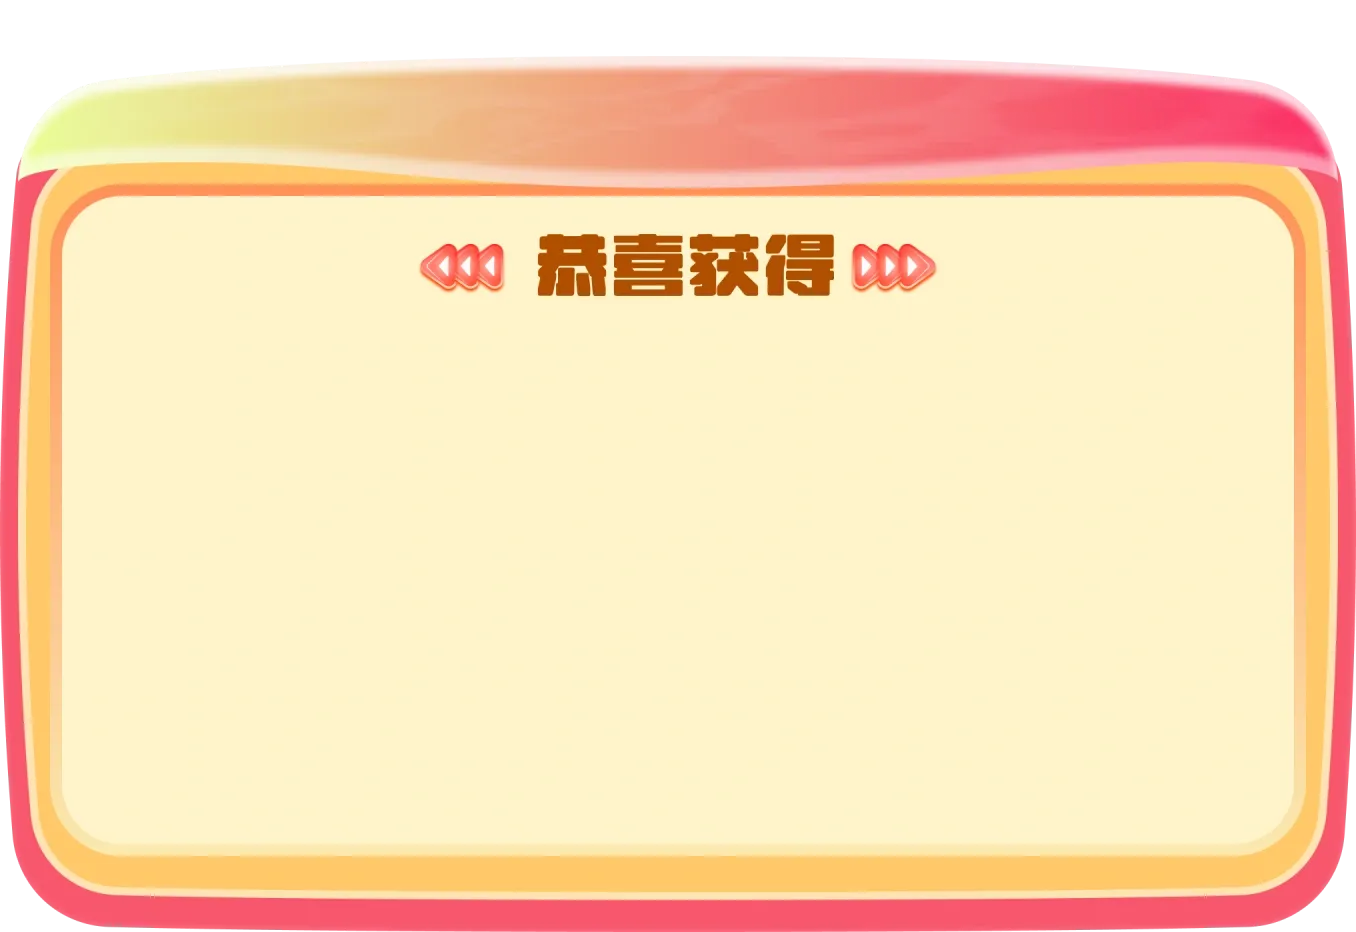
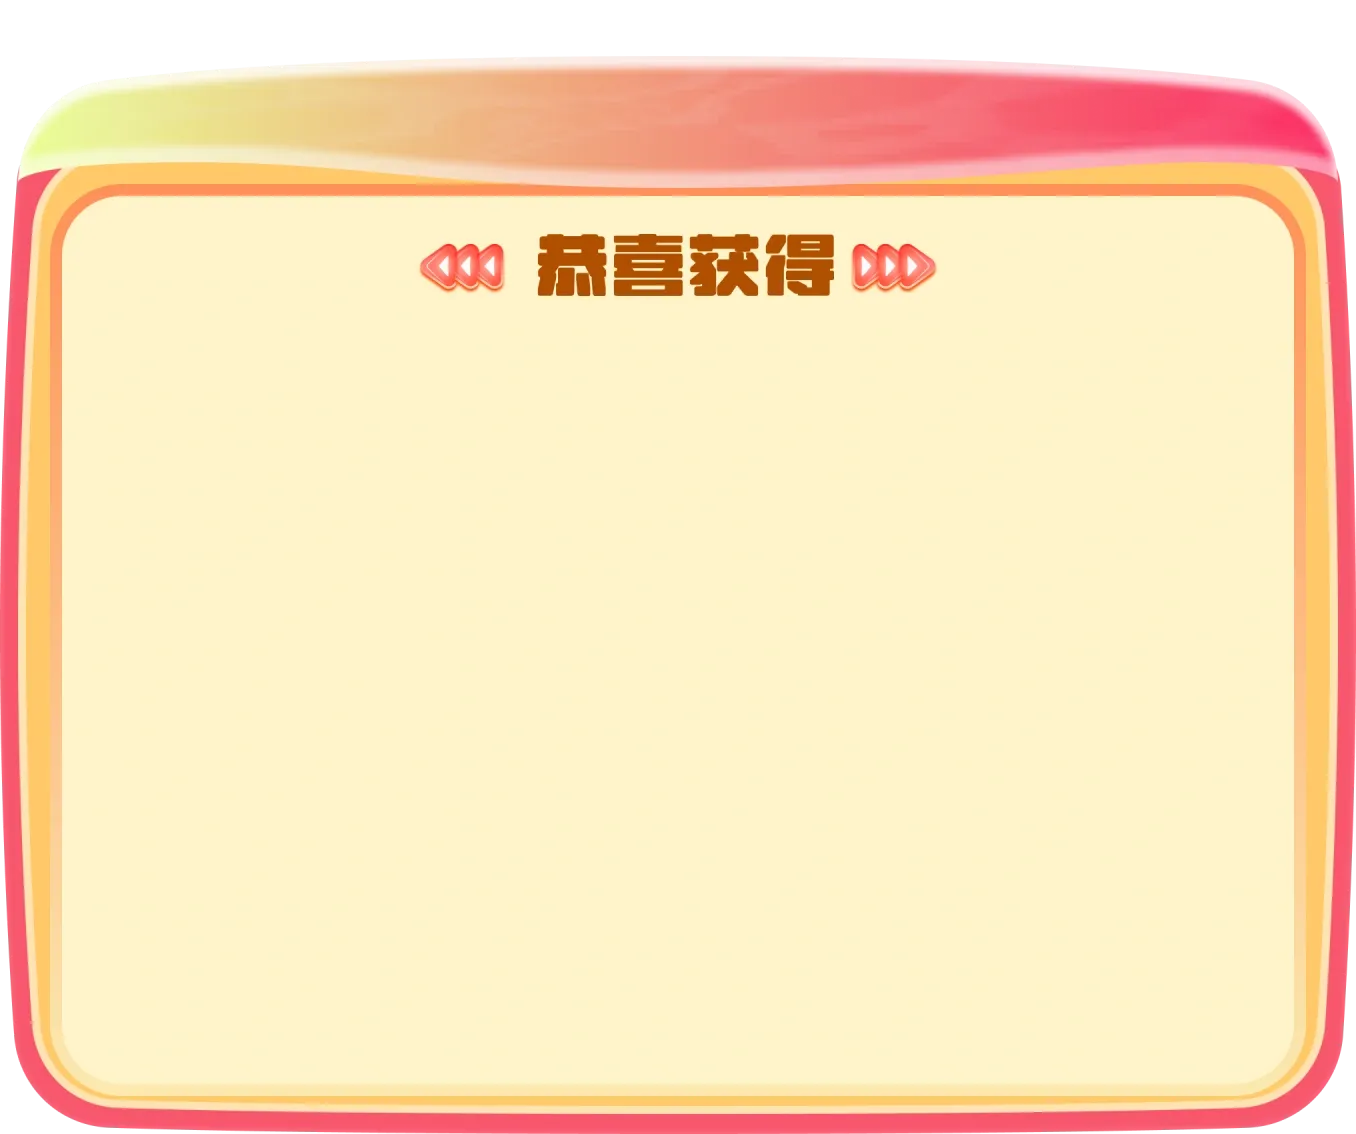
feat: '增加再来一次按钮'

Changed region(s): [[0.0, 0.0311, 1.0, 0.4356], [0.0, 0.8712, 0.9912, 1.0]]

diff --git a/components/doll-activity/ResultDialog.vue b/components/doll-activity/ResultDialog.vue
@@ -19,6 +19,7 @@
             </div>
           </div>
         </div>
+        <div class="catch-again-btn" @click="catchAgain" />
       </div>
     </van-popup>
   </div>
@@ -28,7 +29,7 @@
 import { ref } from 'vue'
 import debrisImg from '@/assets/images/doll-activity/debris-icon.webp'
 
-const emits = defineEmits(['closeDialog'])
+const emits = defineEmits(['closeDialog', 'confirmCatch'])
 const dialogVisible = ref(false)
 const retList = ref()
 const setVisible = (bool) => {
@@ -37,6 +38,11 @@ const setVisible = (bool) => {
 const openDialog = (list: any[]) => {
   retList.value = list
   dialogVisible.value = true
+}
+
+const catchAgain = () => {
+  setVisible(false)
+  emits('confirmCatch')
 }
 
 const BgTypeNum = computed(() => {
@@ -77,7 +83,7 @@ defineExpose<{ openDialog: (boolean) => void }>({ openDialog })
     justify-content: center;
     padding: 0 !important;
     width: 678px !important;
-    height: 829px !important;
+    // height: 829px !important;
     overflow: visible !important;
     height: auto;
     background: transparent;
@@ -89,6 +95,7 @@ defineExpose<{ openDialog: (boolean) => void }>({ openDialog })
       align-items: center;
       justify-content: center;
       width: 678px;
+      box-sizing: border-box;
 
       font-size: 28px;
       padding-top: 160px;
@@ -106,6 +113,7 @@ defineExpose<{ openDialog: (boolean) => void }>({ openDialog })
         max-width: 560px;
         min-height: 207px;
         max-height: 600px;
+        margin-bottom: 20px;
         display: flex;
         flex-wrap: wrap;
         overflow-y: scroll;
@@ -145,19 +153,26 @@ defineExpose<{ openDialog: (boolean) => void }>({ openDialog })
           margin-right: 0 !important;
         }
       }
+      .catch-again-btn {
+        width: 451px;
+        height: 111px;
+        margin: 0 auto;
+        background: url('@/assets/images/doll-activity/catch-again-btn.webp')
+          center center / cover no-repeat transparent;
+      }
     }
     .body.one {
-      height: 466px;
+      height: 567px;
       background: url('@/assets/images/doll-activity/result-dialog1.webp')
         center center / cover no-repeat transparent;
     }
     .body.two {
-      height: 696px;
+      height: 809px;
       background: url('@/assets/images/doll-activity/result-dialog2.webp')
         center center / cover no-repeat transparent;
     }
     .body.three {
-      height: 829px;
+      height: 1036px;
       background: url('@/assets/images/doll-activity/result-dialog3.webp')
         center center / cover no-repeat transparent;
     }

diff --git a/middleware/fix-query.global.ts b/middleware/fix-query.global.ts
@@ -2,19 +2,19 @@
  * 替换url中的多个问号为一个
  */
 export default defineNuxtRouteMiddleware((to, from) => {
-  // const originalUrl = to.fullPath;
-  // const firstQuestionMarkIndex = originalUrl.indexOf('?');
+  const originalUrl = to.fullPath
+  const firstQuestionMarkIndex = originalUrl.indexOf('?')
 
-  // if (firstQuestionMarkIndex !== -1) {
-  //   const queryPart = originalUrl.slice(firstQuestionMarkIndex + 1);
-  //   const additionalQuestionMarkIndex = queryPart.indexOf('?');
+  if (firstQuestionMarkIndex !== -1) {
+    const queryPart = originalUrl.slice(firstQuestionMarkIndex + 1)
+    const additionalQuestionMarkIndex = queryPart.indexOf('?')
 
-  //   if (additionalQuestionMarkIndex !== -1) {
-  //     const cleanQueryPart = queryPart.replace(/\?/g, '&');
-  //     const newUrl = `${originalUrl.slice(0, firstQuestionMarkIndex + 1)}${cleanQueryPart}`;
+    if (additionalQuestionMarkIndex !== -1) {
+      const cleanQueryPart = queryPart.replace(/\?/g, '&')
+      const newUrl = `${originalUrl.slice(0, firstQuestionMarkIndex + 1)}${cleanQueryPart}`
 
-  //     // 使用 navigateTo 进行重定向
-  //     return navigateTo(newUrl, { redirectCode: 301 });
-  //   }
-  // }
+      // 使用 navigateTo 进行重定向
+      return navigateTo(newUrl, { redirectCode: 301 })
+    }
+  }
 })

diff --git a/pages/doll-activity/index.vue b/pages/doll-activity/index.vue
@@ -119,7 +119,7 @@
     </div>
     <div class="act-rule-box" />
     <!-- 福馈弹窗 -->
-    <ResultDialog ref="resultDialogRef" @close-dialog="openDollDialog" />
+    <ResultDialog ref="resultDialogRef" @close-dialog="openDollDialog" @confirm-catch="confirmCatch" />
     <!-- 惊喜娃娃 -->
     <DollRuleDialog ref="dollRuleDialogRef" @success="initPage" />
     <!-- 奖品 -->
